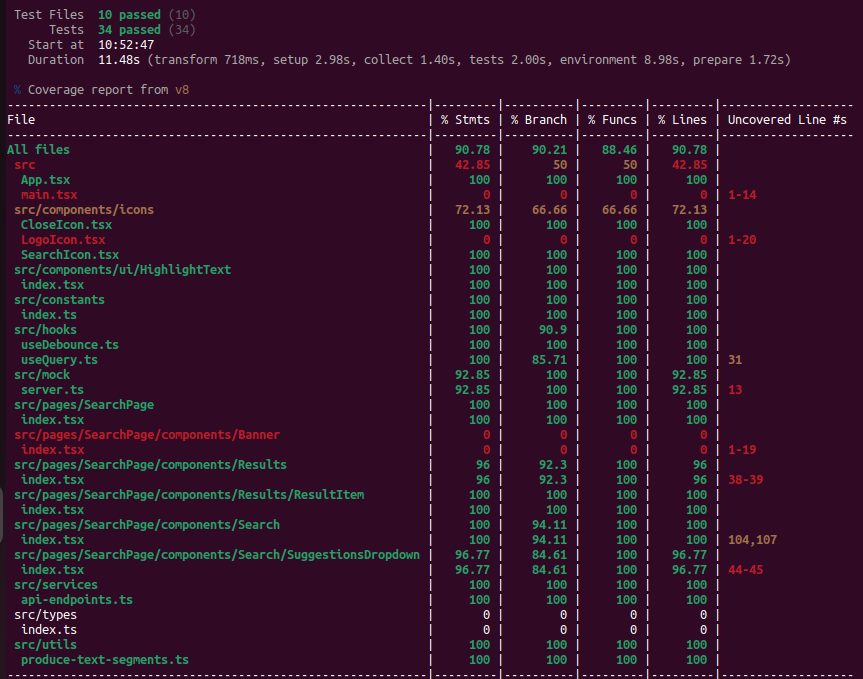
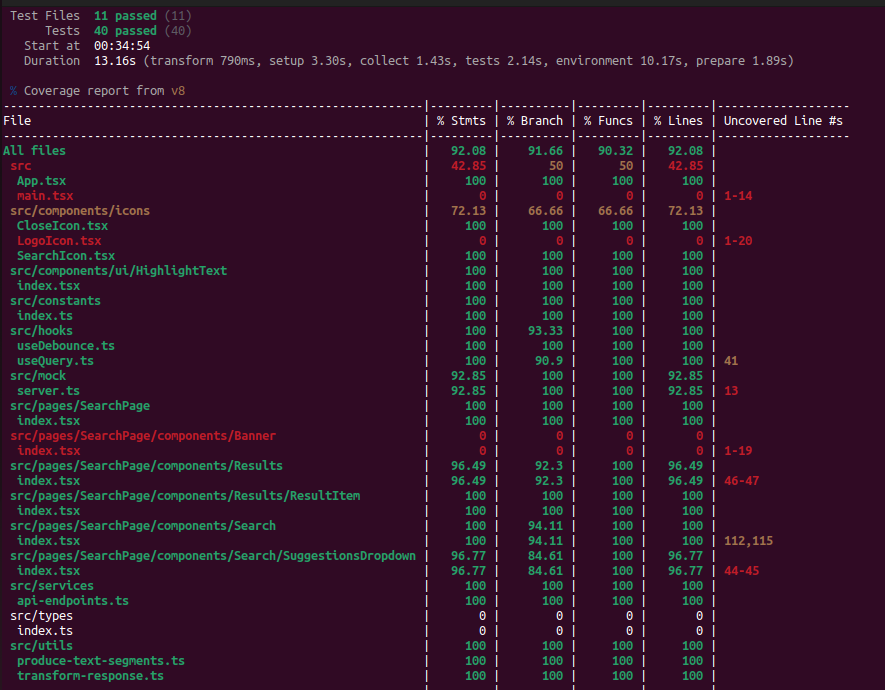
Update test coverage report and project description

Changed region(s): [[0.0, 0.1237, 0.9942, 1.0], [0.0, 0.0, 0.9038, 0.0928]]

diff --git a/README.md b/README.md
@@ -89,11 +89,13 @@ npm run preview
 
 3. Open the browser and go to http://localhost:4173
 
+## Extra:
+
+The endpoints return fixed responses, so I use transform functions to mimic a `real search experience` for user.
+
 ## Note on implementation:
 
-1. In real application, the server returns the correct response. So I use the mock response as is to display results without filtering for items that really contains keyword.
-
-2. When handle clearing input by clicking clear button and select suggestion from the the suggestions dropdown, I use onMouseDown instead of onClick (because of the order in which events are fires).
+When handle clearing input by clicking clear button and select suggestion from the the suggestions dropdown, I use onMouseDown instead of onClick (because of the order in which events are fires).
 
 - When we click on ClearButton / SuggestionItem, the `blur` event on SearchInput is triggered, which set the `isInputFocused` state to `false`
 - The ClearButton / SuggestionsDropdown is unmounted. So the `click` event will not fired on those elements.
